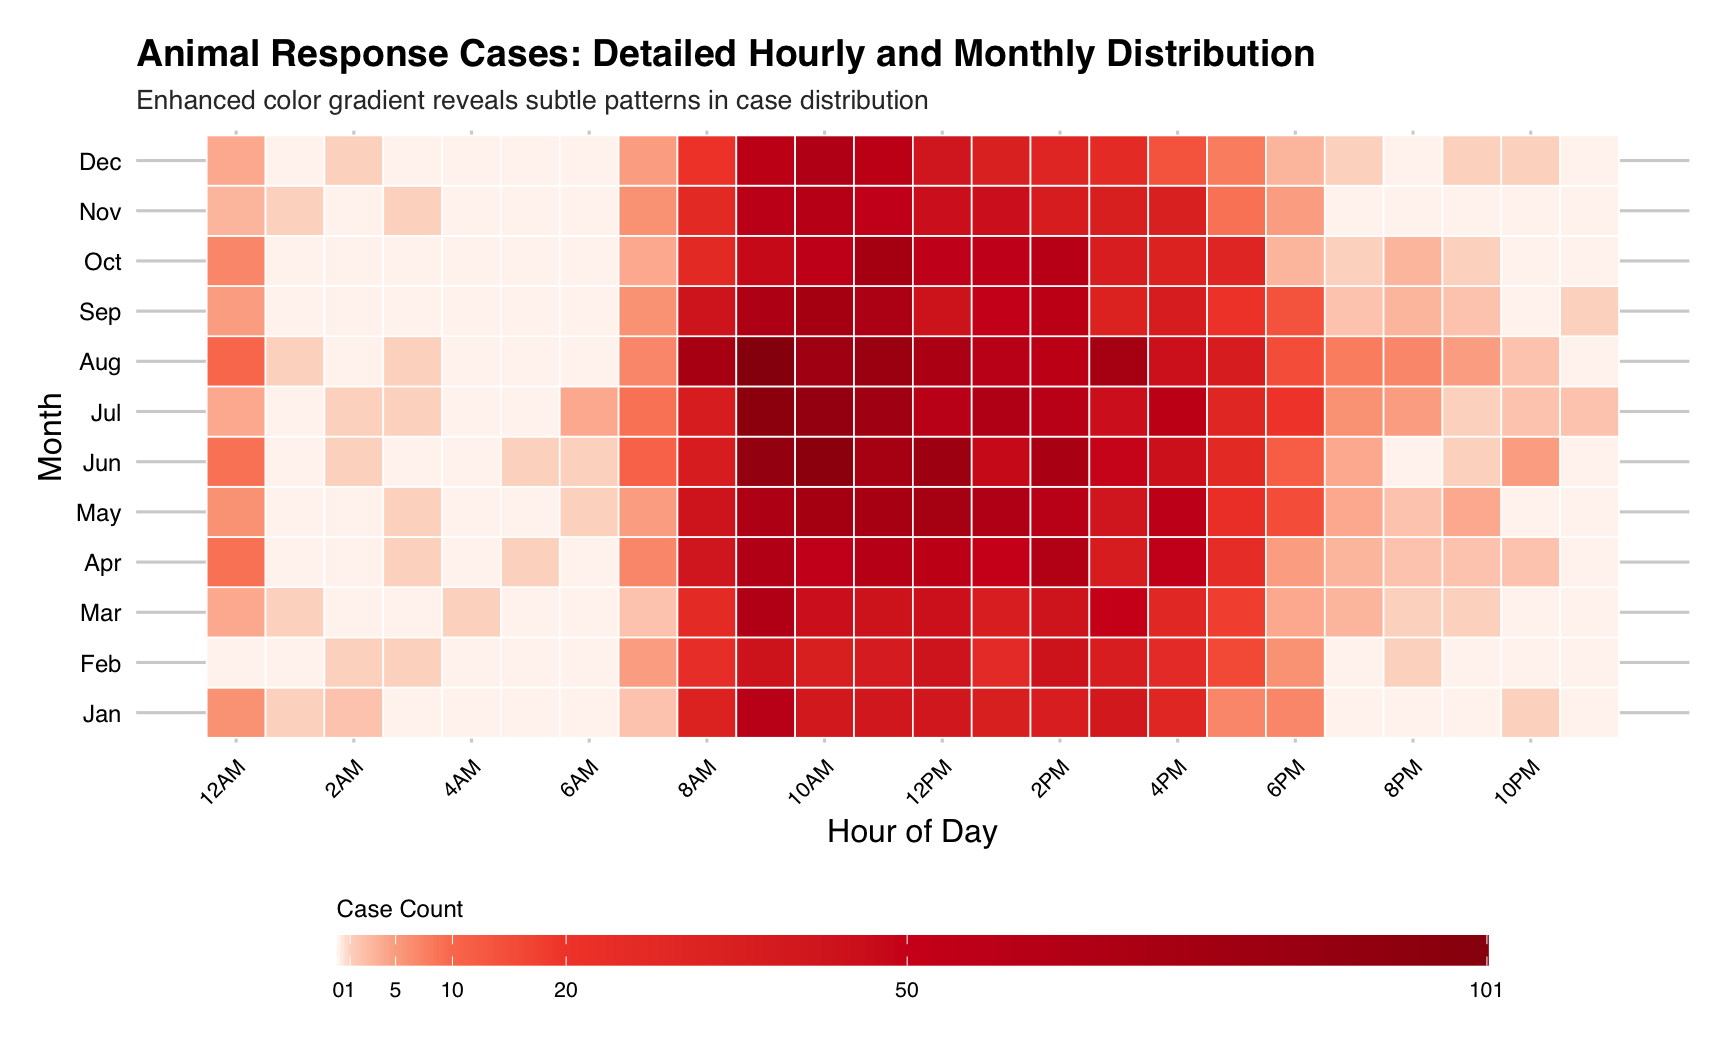
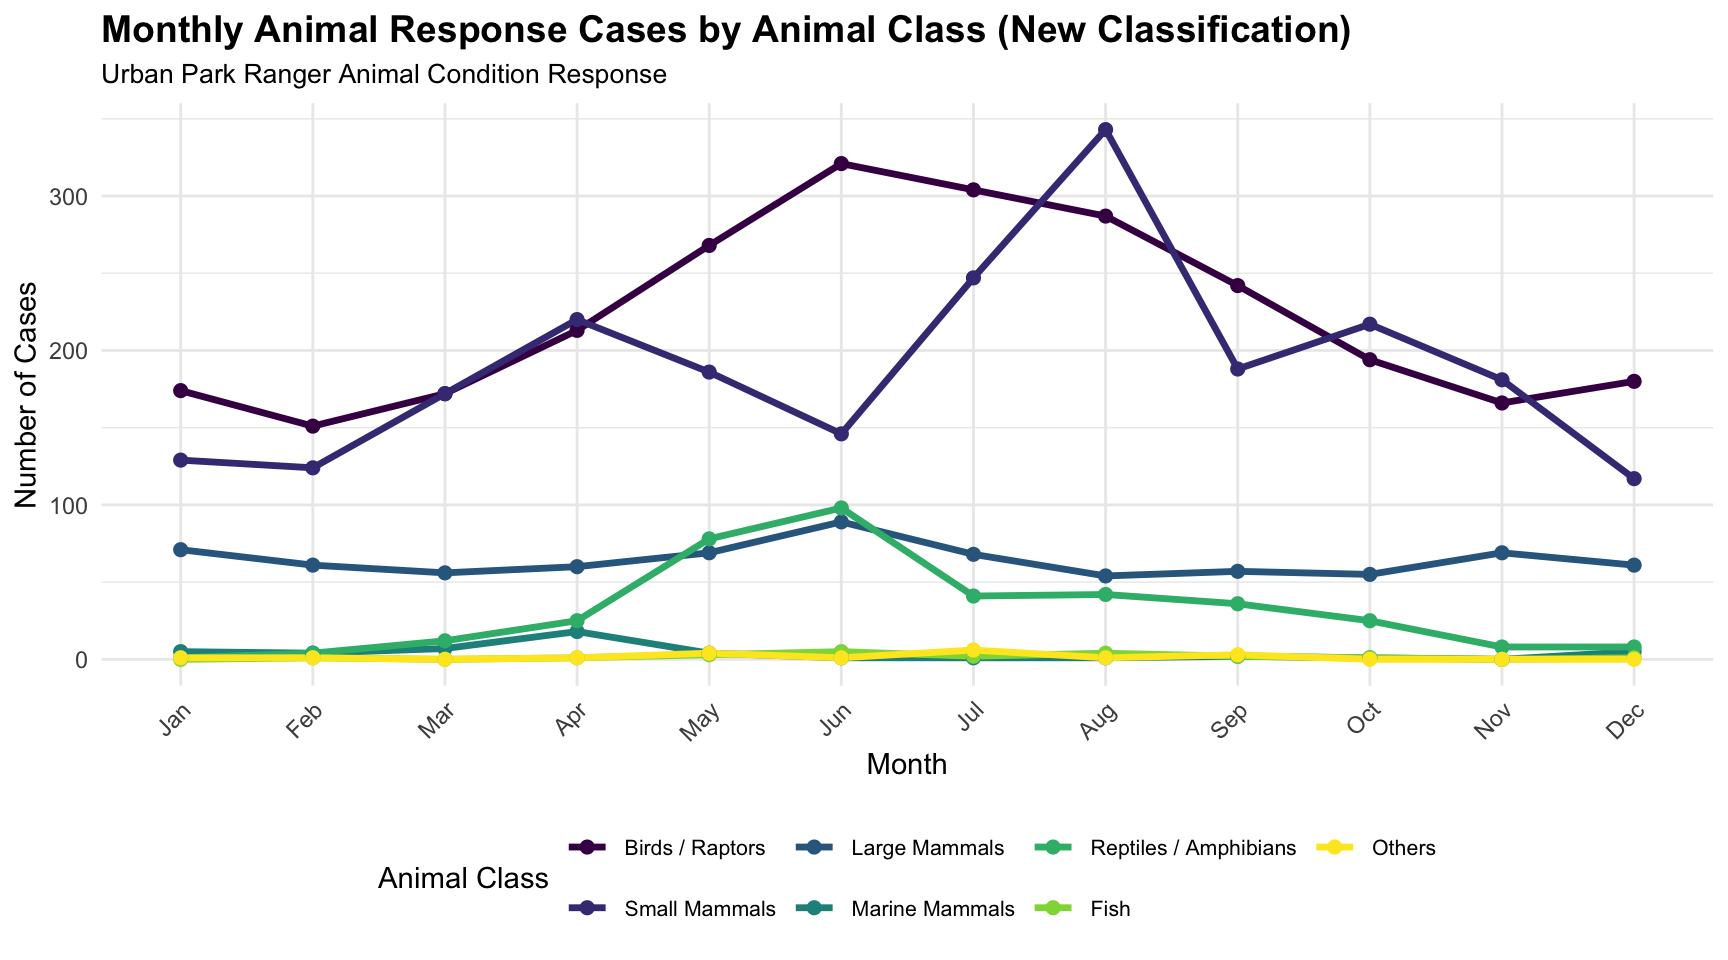
changed the image citation format

diff --git a/Temporal-Pattern.html b/Temporal-Pattern.html
@@ -13,7 +13,7 @@
 
 <title>Temporal Pattern</title>
 
-<script src="site_libs/header-attrs-2.29/header-attrs.js"></script>
+<script src="site_libs/header-attrs-2.30/header-attrs.js"></script>
 <script src="site_libs/jquery-3.6.0/jquery-3.6.0.min.js"></script>
 <meta name="viewport" content="width=device-width, initial-scale=1" />
 <link href="site_libs/bootstrap-3.3.5/css/flatly.min.css" rel="stylesheet" />
@@ -325,7 +325,7 @@ div.tocify {
     <div id="navbar" class="navbar-collapse collapse">
       <ul class="nav navbar-nav">
         <li>
-  <a href="about.html">Data</a>
+  <a href="Data-Cleaning.html">Data</a>
 </li>
 <li>
   <a href="Temporal-Pattern.html">Temporal Pattern</a>
@@ -372,13 +372,12 @@ div.tocify {
 </div>
 
 
-<br>
-<div align="center">
-<p><img src="images/cute_cat2.jpg" style="width:60.0%" /></p>
+<div style="text-align: center;">
+<img src="images/cute_cat2.jpg" width="60%" />
+<p style="font-size:12px; color:gray; margin-top:4px;">
+Image Credits: the dodo
+</p>
 </div>
-<p><a
-href="https://www.thedodo.com/daily-dodo/shelter-staff-realize-fierce-little-rescue-kitten-isnt-who-she-seems">image
-source</a></p>
 <p>This page presents a comprehensive analysis and visualization of
 temporal patterns in wildlife incident reports, with the goal of
 generating data-driven insights to optimize rescue response strategies
@@ -429,14 +428,14 @@ mon_case_plot = monthly_animal_trends |&gt;
   scale_color_viridis_d()
 
 print(mon_case_plot)</code></pre>
-<p><img src="Temporal-Pattern_files/figure-html/unnamed-chunk-2-1.png" width="864" /></p>
+<p><img src="Temporal-Pattern_files/figure-html/unnamed-chunk-3-1.png" width="864" /></p>
 </div>
 <div id="chart-interpretation" class="section level3">
 <h3>Chart Interpretation</h3>
 <p>This line chart displays the monthly distribution of animal response
 cases across 7 reclassified animal categories throughout the year.</p>
 <p>Key Findings:</p>
-<ol style="list-style-type: decimal">
+<ul>
 <li><p>Birds and raptors demonstrate a notable increase in cases
 beginning in February, reaching a peak in June, and declining to their
 lowest levels by November, possibly reflecting migratory patterns,
@@ -456,14 +455,24 @@ during warmer conditions.</p></li>
 <li><p>Marine mammals and other categories remain consistently minimal
 with case counts in the single digits, possibly due to their limited
 presence in urban park ecosystems or lower detection rates.</p></li>
-</ol>
+</ul>
 <br>
-<div align="center">
-<p><img src="images/Owl.jpg" style="width:50.0%" /></p>
+<div
+style="display: inline-block; width: 45%; text-align: center; vertical-align: top; margin: 10px;">
+<img src="images/hurt_owl.jpg" /><!-- -->
+<div
+style="font-size: 12px; color: #666; font-style: italic; margin-top: 5px;">
+Image Credits: bestfriends
 </div>
-<p><a
-href="https://bestfriends.org/stories/features/owls-rare-return-best-friends-animal-sanctuary">image
-source</a></p>
+</div>
+<div
+style="display: inline-block; width: 44%; text-align: center; vertical-align: top; margin: 10px;">
+<img src="images/recovered_owl.png" width="424" />
+<div
+style="font-size: 12px; color: #666; font-style: italic; margin-top: 5px;">
+Image Credits: bestfriends
+</div>
+</div>
 </div>
 </div>
 <div id="temporal-distribution-analysis" class="section level2">
@@ -531,7 +540,7 @@ case_heatmap = hourly_monthly_heatmap |&gt;
   )
 
 plot(case_heatmap)</code></pre>
-<p><img src="Temporal-Pattern_files/figure-html/unnamed-chunk-3-1.png" width="864" /></p>
+<p><img src="Temporal-Pattern_files/figure-html/unnamed-chunk-5-1.png" width="864" /></p>
 </div>
 <div id="time-month-heatmap-analysis" class="section level3">
 <h3>Time-Month Heatmap Analysis</h3>
@@ -542,17 +551,16 @@ recreational use, while winter shows contracted midday patterns
 corresponding to reduced daylight availability. Minimal overnight
 reporting may reflect limited detection capabilities during
 low-human-activity periods.</p>
-<br>
-<div align="center">
-<p><img src="images/rooster.jpg" style="width:50.0%" /></p>
-</div>
-<p><a
-href="https://bestfriends.org/stories/julie-castle-blog/answering-call-wild-wild-friends-inside-wildlife-rehabilitation-best">image
-source</a></p>
+<div style="text-align: center;">
+<img src="images/rooster.jpg" width="60%" />
+<p style="font-size:12px; color:gray; margin-top:4px;">
+Image Credits: bestfriends
+</p>
 </div>
 </div>
-<div id="recommendations-section" class="section level2">
-<h2>Recommendations Section</h2>
+</div>
+<div id="recommendations" class="section level2">
+<h2>Recommendations</h2>
 <p>Enhanced ranger coverage during summer afternoons could address
 elevated case frequencies across multiple species. Early spring public
 education initiatives might mitigate conflicts by raising awareness of
@@ -562,13 +570,12 @@ planning. Visitor vigilance during peak seasons and prompt daylight
 reporting could improve response effectiveness, supplemented by
 community monitoring programs and coordinated rehabilitation
 networks.</p>
-<br>
-<div align="center">
-<p><img src="images/falcon.jpg" style="width:60.0%" /></p>
+<div style="text-align: center;">
+<img src="images/falcon.jpg" width="60%" />
+<p style="font-size:12px; color:gray; margin-top:4px;">
+Image Credits: bestfriends
+</p>
 </div>
-<p><a
-href="https://bestfriends.org/stories/julie-castle-blog/answering-call-wild-wild-friends-inside-wildlife-rehabilitation-best">image
-source</a></p>
 </div>
 
 
